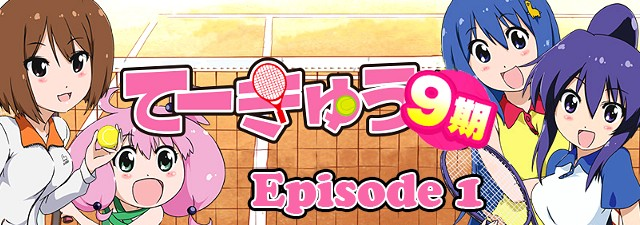
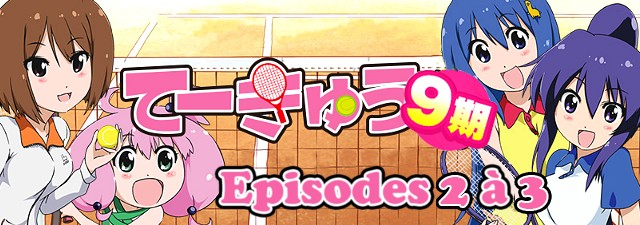
new release

Changed region(s): [[0.3125, 0.7156, 0.875, 0.9956]]

diff --git a/2017-07-28.html b/2017-07-28.html
@@ -1,0 +1,117 @@
+<!DOCTYPE html>
+<html lang="fr-FR">
+	<head>
+		<title>Teekyuu Saison 9 Ep 2 à 3 vostfr | Nobluesky Fansub</title>
+		<meta charset="utf-8" />
+		<meta name=viewport content="width=980">
+		<link rel="Shortcut Icon" type="image/x-icon" href="favicon.ico" />
+		<link href="fonts/fonts.css" rel="stylesheet" type="text/css" />
+		<link href="style.css" rel="stylesheet" type="text/css" media="screen" />
+		<link rel="stylesheet" href="menu.css" type="text/css" />
+		<script src="jquery.js" type="text/javascript"></script>
+		<script src="background-script.js" type="text/javascript"></script>
+	</head>
+<body>
+<div class="banner">
+	<a title="Nobluesky Fansub" href="index.html"> <img class="banner" alt="Nobluesky Fansub" title="Nobluesky Fansub" src="images/banner.png"/> </a>
+</div>
+<!-- end banner -->
+<div id="menu-wrapper">
+	<div id="menu">
+		<script type="text/javascript">
+		$( '#menu' ).load( 'menu.html' );
+		</script>
+		<noscript>Activez javascript pour voir le menu!</noscript>
+	</div>
+</div>
+<!-- end #menu -->
+<div id="page-wrapper">
+<div id="sidebar-wrapper">
+	<div id="sidebar">
+		<script type="text/javascript">
+		$( '#sidebar' ).load( 'sidebar.html' );
+		</script>
+	</div>
+	<!-- end #sidebar -->
+</div>
+	<div id="article">
+		<div id="content">
+			<div class="post">
+				<h1 class="title">Teekyuu Saison 9 Ep 2 à 3 vostfr</h1>
+				<p class="meta"><span class="date">28 Juillet 2017</span><span class="posted">Posté par <a href="about.html#nobluesky">Nobluesky</a></span></p>
+				<div style="clear: both;">&nbsp;</div>
+				<div class="entry">
+					<img class="post-images" src="images/2017/news6.jpg" alt="" />
+					<p>Salut à tous !</p>
+					<p>J'ai eu quelques difficultés de plomberie avec mon évier qui ont retardé l'épisode 2 (je crois que c'est la meilleure excuse de l'histoire du sub celle-là xD), mais je me rattrape !</p>
+					<p>Cette fois, si vous fêtez vos anniversaires cet été, ne faites surtout pas comme les filles du club de tennis^^</p>
+					<p>Nous avons aussi droit à "une journée particulière" si j'ose dire, déjà que c'est ordinairement chelou dans l'univers de Teekyuu... Accrochez vos ceintures :P</p>
+					<p>Encore une fois (peut-être pas la dernière), merci à Yohan de la Meda pour la relecture.</p>
+					<p>Au passage puisque c'est la saison des anniv', on vient de franchir le cap des trois ans du site depuis le 26 avant-hier, c'est quelque chose qui méritait d'être souligné.</p>
+					<p>Trois ans après, nous sommes encore là à vous proposer des choses ! Au programme de l'année à venir, la fin de Teekyuu 9 et Sohryuden, ainsi qu'un film vers la seconde moitié de 2017 si tout va bien.</p>
+					<p>Loin des productions de sous-titres à la course (fastsub), on essaye de se faire plaisir et de garder la qualité à un niveau acceptable et j'espère que c'est réussi, quitte à prendre parfois du retard sur le mode "simulcast". Continuez à donner des retours sur les épisodes !</p>
+					<p>Le chemin parcouru aujourd'hui est très grand depuis mes débuts seul sans expérience, et j'ai apprécié de le parcourir bien accompagné par les irréductibles qui viennent ici leecher depuis des lustres et les amis des autres équipes que j'ai connus au fil du temps. L'avenir nous dira le temps que durera cette aventure au pays de la japanimation !</p>
+					<p>Amusez-vous comme des petits fous, on se retrouve la prochaine.</p>
+					<h3>Téléchargements et streaming</h3>
+					Sur serveur :
+					<p class="links dl"><a href="http://ddl.nobluesub.com/teekyuu9.html" class="button-dl">Dédié</a></p>
+					<br>
+					Episode 2 :
+					<p class="links dl"><a href="http://jheberg.net/captcha/nobluesub-teekyuu-s9-02-hd-1280x720-x264/" class="button-dl">Jheberg</a></p>&nbsp; | &nbsp;
+					<p class="links dl"><a href="https://rutube.ru/video/340ba2fe8cb65cd33588dcf618bb8770/" class="button-dl">Rutube</a></p>&nbsp; | &nbsp;
+					<p class="links dl"><a href="https://mega.nz/#!nJVQSJ5R!5vzscZLLfNFoNFEaGFLgPKmu4FY-VMCsdZlforc7N6I" class="button-dl">Mega</a></p>
+					<br>
+					Episode 3 :
+					<p class="links dl"><a href="http://jheberg.net/captcha/nobluesub-teekyuu-s9-03-hd-1280x720-x264/" class="button-dl">Jheberg</a></p>&nbsp; | &nbsp;
+					<p class="links dl"><a href="https://rutube.ru/video/8187fda3099762fe41605c6bb77fcb3a/" class="button-dl">Rutube</a></p>&nbsp; | &nbsp;
+					<p class="links dl"><a href="https://mega.nz/#!CdMUTDJQ!s4u8WTS0eljHrsXpDQFDb1lmnJkN_5WGocgsoTcZepk" class="button-dl">Mega</a></p>
+					<h3>Commentaires</h3>
+					<div id="disqus_thread"></div>
+					<script type="text/javascript">
+						/* * * CONFIGURATION VARIABLES: EDIT BEFORE PASTING INTO YOUR WEBPAGE * * */
+						var disqus_shortname = 'noblueskyfansub'; // required: replace example with your forum shortname
+
+						/* * * DON'T EDIT BELOW THIS LINE * * */
+						(function() {
+							var dsq = document.createElement('script'); dsq.type = 'text/javascript'; dsq.async = true;
+							dsq.src = '//' + disqus_shortname + '.disqus.com/embed.js';
+							(document.getElementsByTagName('head')[0] || document.getElementsByTagName('body')[0]).appendChild(dsq);
+						})();
+					</script>
+					<noscript>Activez javascript pour voir les commentaires.</noscript>
+					<a href="http://disqus.com" class="dsq-brlink">commentaires propulsés par <span class="logo-disqus">Disqus</span></a>
+				</div>
+			</div>
+			<div style="clear: both;">&nbsp;</div>
+		</div>
+		<!-- end #content -->
+		<div style="clear: both;">&nbsp;</div>
+	</div>
+</div>
+<!-- end #page -->
+<script type="text/javascript">
+$(window).scroll(function() {
+    if ($(this).scrollTop() < 1000) {
+        $("#footer").hide();
+    }
+    else {
+        $("#footer").show();
+    }
+});
+$(window).scroll(function() {
+  if ($(this).scrollTop() < 1000) {
+    $("footer").slideUp();
+      }
+  else {
+    $("footer").slideDown();
+      }
+});		
+</script>
+<div id="footer">
+	<script type="text/javascript">
+	$( '#footer' ).load( 'footer.html' );
+	</script>
+</div>
+<!-- end #footer -->
+</body>
+</html>

diff --git a/index.html b/index.html
@@ -35,7 +35,7 @@
 <div id="page-wrapper">
 	<div class="slider-wrapper theme-default">
 		<div id="slider" class="nivoSlider">
-			<a href="2017-07-19.html"><img src="images/img02.jpg" alt="" /></a><a href="2017-06-28.html"><img src="images/img01.jpg" alt="" /></a>
+			<a href="2017-07-28.html"><img src="images/img02.jpg" alt="" /></a><a href="2017-06-28.html"><img src="images/img01.jpg" alt="" /></a>
 		</div>
 	</div>
 <script type="text/javascript">
@@ -59,6 +59,20 @@
 				<div style="clear: both;">&nbsp;</div>
 				<div class="entry">
 					<p>Bienvenue sur le site de la Nobluesky Fansub !</p>
+				</div>
+			</div>
+			<div class="post">
+				<h1 class="title"><a href="2017-07-28.html">Teekyuu Saison 9 Ep 2 à 3 vostfr</a></h1>
+				<p class="meta"><span class="date">28 Juillet 2017</span><span class="posted">Posté par <a href="about.html#nobluesky">Nobluesky</a></span></p>
+				<p class="comcount"><a href="https://nobluesub.com/2017-07-28.html#disqus_thread">Commentaires</a></p>
+				<div style="clear: both;">&nbsp;</div>
+				<div class="entry">
+					<img class="post-images" src="images/2017/news6.jpg" alt="" />
+					<p>Salut à tous !</p>
+					<p>J'ai eu quelques difficultés de plomberie avec mon évier qui ont retardé l'épisode 2 (je crois que c'est la meilleure excuse de l'histoire du sub celle-là xD), mais je me rattrape !</p>
+					<p>Cette fois, si vous fêtez vos anniversaires cet été, ne faites surtout pas comme les filles du club de tennis^^</p>
+					<p>Nous avons aussi droit à "une journée particulière" si j'ose dire...</p>
+					<p class="links"><a href="2017-07-28.html" class="button">Lire la suite</a></p>
 				</div>
 			</div>
 			<div class="post">
@@ -113,20 +127,6 @@
 					<p>Voici le premier Sohryuden de l'année, enfin ! Dans cet épisode, la suite de la confrontation avec Son Altesse de Kamakura !</p>
 					<p>J'en profite aussi pour vous informer du passage du site au tout https depuis une vingtaine de jours. Concrètement pour vous...</p>
 					<p class="links"><a href="2017-02-21.html" class="button">Lire la suite</a></p>
-				</div>
-			</div>
-			<div class="post">
-				<h1 class="title"><a href="2017-01-11.html">Sougen no Ko Tenguri vostfr</a></h1>
-				<p class="meta"><span class="date">11 Janvier 2017</span><span class="posted">Posté par <a href="about.html#nobluesky">Nobluesky</a></span></p>
-				<p class="comcount"><a href="https://nobluesub.com/2017-01-11.html#disqus_thread">Commentaires</a></p>
-				<div style="clear: both;">&nbsp;</div>
-				<div class="entry">
-					<img class="post-images" src="images/2017/news1.jpg" alt="" />
-					<p>Bonsoir les amis,</p>
-					<p>aujourd'hui, pas de dragons en vue, mais un petit court métrage des familles.</p>
-					<p>Sougen no Ko Tenguri, ou Tenguri l'enfant des steppes, est un court métrage de 22 minutes datant de 1977 qui raconte l'histoire d'un petit garçon et d'un veau. Bon, là vous vous dites, pourquoi je regarderais ça ??</p>
-					<p>Ben parce que...</p>
-					<p class="links"><a href="2017-01-11.html" class="button">Lire la suite</a></p>
 				</div>
 			</div>
 			<div id="button-page-wrapper">

diff --git a/page2.html b/page2.html
@@ -31,7 +31,7 @@
 <div id="page-wrapper">
 	<div class="slider-wrapper theme-default">
 		<div id="slider" class="nivoSlider">
-			<a href="2017-07-19.html"><img src="images/img02.jpg" alt="" /></a><a href="2017-06-28.html"><img src="images/img01.jpg" alt="" /></a>
+			<a href="2017-07-28.html"><img src="images/img02.jpg" alt="" /></a><a href="2017-06-28.html"><img src="images/img01.jpg" alt="" /></a>
 		</div>
 	</div>
 <script type="text/javascript">
@@ -50,6 +50,20 @@
 </div>
 	<div id="feed">
 		<div id="content">
+			<div class="post">
+				<h1 class="title"><a href="2017-01-11.html">Sougen no Ko Tenguri vostfr</a></h1>
+				<p class="meta"><span class="date">11 Janvier 2017</span><span class="posted">Posté par <a href="about.html#nobluesky">Nobluesky</a></span></p>
+				<p class="comcount"><a href="https://nobluesub.com/2017-01-11.html#disqus_thread">Commentaires</a></p>
+				<div style="clear: both;">&nbsp;</div>
+				<div class="entry">
+					<img class="post-images" src="images/2017/news1.jpg" alt="" />
+					<p>Bonsoir les amis,</p>
+					<p>aujourd'hui, pas de dragons en vue, mais un petit court métrage des familles.</p>
+					<p>Sougen no Ko Tenguri, ou Tenguri l'enfant des steppes, est un court métrage de 22 minutes datant de 1977 qui raconte l'histoire d'un petit garçon et d'un veau. Bon, là vous vous dites, pourquoi je regarderais ça ??</p>
+					<p>Ben parce que...</p>
+					<p class="links"><a href="2017-01-11.html" class="button">Lire la suite</a></p>
+				</div>
+			</div>
 			<div class="post">
 				<h1 class="title"><a href="2016-12-31.html">Sohryuden 02 vostfr</a></h1>
 				<p class="meta"><span class="date">31 Décembre 2016</span><span class="posted">Posté par <a href="about.html#nobluesky">Nobluesky</a></span></p>
@@ -101,21 +115,6 @@
 					<p>Voici, par ce temps brumeux et obscur, votre tranche de rire hebdomadaire, ça fait plaisir !</p>
 					<p>Quoi de mieux en attendant Noël...</p>
 					<p class="links"><a href="2016-12-11.html" class="button">Lire la suite</a></p>
-				</div>
-			</div>
-			<div class="post">
-				<h1 class="title"><a href="2016-12-04.html">Teekyuu Saison 8 Ep 9 vostfr</a></h1>
-				<p class="meta"><span class="date">4 Décembre 2016</span><span class="posted">Posté par <a href="about.html#nobluesky">Nobluesky</a></span></p>
-				<p class="comcount"><a href="https://nobluesub.com/2016-12-04.html#disqus_thread">Commentaires</a></p>
-				<div style="clear: both;">&nbsp;</div>
-				<div class="entry">
-					<img class="post-images" src="images/2016/news33.jpg" alt="" />
-					<p>Bonjouur~~</p>
-					<p>Voici l'épisode 9 de Teekyuu !</p>
-					<p>Avec des beaux édits tout frais, je n'en parle plus car ça devient banal. Mais comme je les fais tous, il faut bien que je m'en vante !</p>
-					<p>Une histoire. Une séparation, puis... Une rencontre qui changea sa vie.</p>
-					<p>Découvrez ce préquel sur l'histoire de Kanae, un moment...</p>
-					<p class="links"><a href="2016-12-04.html" class="button">Lire la suite</a></p>
 				</div>
 			</div>
 			<div id="button-page-wrapper">

diff --git a/teekyuu9.html b/teekyuu9.html
@@ -49,10 +49,20 @@
 					Sur serveur :
 					<p class="links dl"><a href="http://ddl.nobluesub.com/teekyuu9.html" class="button-dl">Dédié</a></p>
 					<br>
-					Episode 01 : 
+					Episode 01 :
 					<p class="links dl"><a href="http://jheberg.net/captcha/nobluesub-teekyuu-s9-01-hd-1280x720-x264/" class="button-dl">Jheberg</a></p>&nbsp; | &nbsp;
 					<p class="links dl"><a href="https://rutube.ru/video/c092a46987df527be2b77b3d520d1b5c/" class="button-dl">Rutube</a></p>&nbsp; | &nbsp;
 					<p class="links dl"><a href="https://mega.nz/#!2RszQYYY!QrL9GeKnNjek7_Wv1Qck5D8R2AaQArLwywk220u23wU" class="button-dl">Mega</a></p>
+					<br>
+					Episode 02 :
+					<p class="links dl"><a href="http://jheberg.net/captcha/nobluesub-teekyuu-s9-02-hd-1280x720-x264/" class="button-dl">Jheberg</a></p>&nbsp; | &nbsp;
+					<p class="links dl"><a href="https://rutube.ru/video/340ba2fe8cb65cd33588dcf618bb8770/" class="button-dl">Rutube</a></p>&nbsp; | &nbsp;
+					<p class="links dl"><a href="https://mega.nz/#!nJVQSJ5R!5vzscZLLfNFoNFEaGFLgPKmu4FY-VMCsdZlforc7N6I" class="button-dl">Mega</a></p>
+					<br>
+					Episode 03 :
+					<p class="links dl"><a href="http://jheberg.net/captcha/nobluesub-teekyuu-s9-03-hd-1280x720-x264/" class="button-dl">Jheberg</a></p>&nbsp; | &nbsp;
+					<p class="links dl"><a href="https://rutube.ru/video/8187fda3099762fe41605c6bb77fcb3a/" class="button-dl">Rutube</a></p>&nbsp; | &nbsp;
+					<p class="links dl"><a href="https://mega.nz/#!CdMUTDJQ!s4u8WTS0eljHrsXpDQFDb1lmnJkN_5WGocgsoTcZepk" class="button-dl">Mega</a></p>
 				</div>
 			</div>
 			<div style="clear: both;">&nbsp;</div>

diff --git a/archives.html b/archives.html
@@ -58,7 +58,8 @@
 					<div>
 					<!-- here comes spoiler content -->
 					<div style="clear: both;">&nbsp;</div>
-					<p><a href="2016-11-27.html" target="_blank">Teekyuu Saison 8 Ep 7 à 8 vostfr</a></p>
+					<p><a href="2016-12-04.html" target="_blank" >Teekyuu Saison 8 Ep 9 vostfr</a></p>
+					<p><a href="2016-11-27.html" target="_blank" >Teekyuu Saison 8 Ep 7 à 8 vostfr</a></p>
 					<p><a href="2016-11-13.html" target="_blank" >Teekyuu Saison 8 Ep 6 vostfr</a></p>
 					<p><a href="2016-11-06.html" target="_blank" >Teekyuu Saison 8 Ep 3 à 5 vostfr</a></p>
 					<p><a href="2016-10-30.html" target="_blank" >Sohryuden 01 vostfr</a></p>

diff --git a/sidebar.html b/sidebar.html
@@ -38,9 +38,9 @@
 				</li>
 			</ul>
 			<ul id="avancements" style="list-style: none!important;">
-				<li>Teekyuu S9 Ep02 à 03 : 50%
+				<li>Teekyuu S9 Ep 02 à 03 : 100%
 					<div class="progress-bar blue stripes" title="Progression" >
-					<span style="width: 50%"></span>
+					<span style="width: 100%"></span>
 					</div>
 				</li>
 			</ul>
